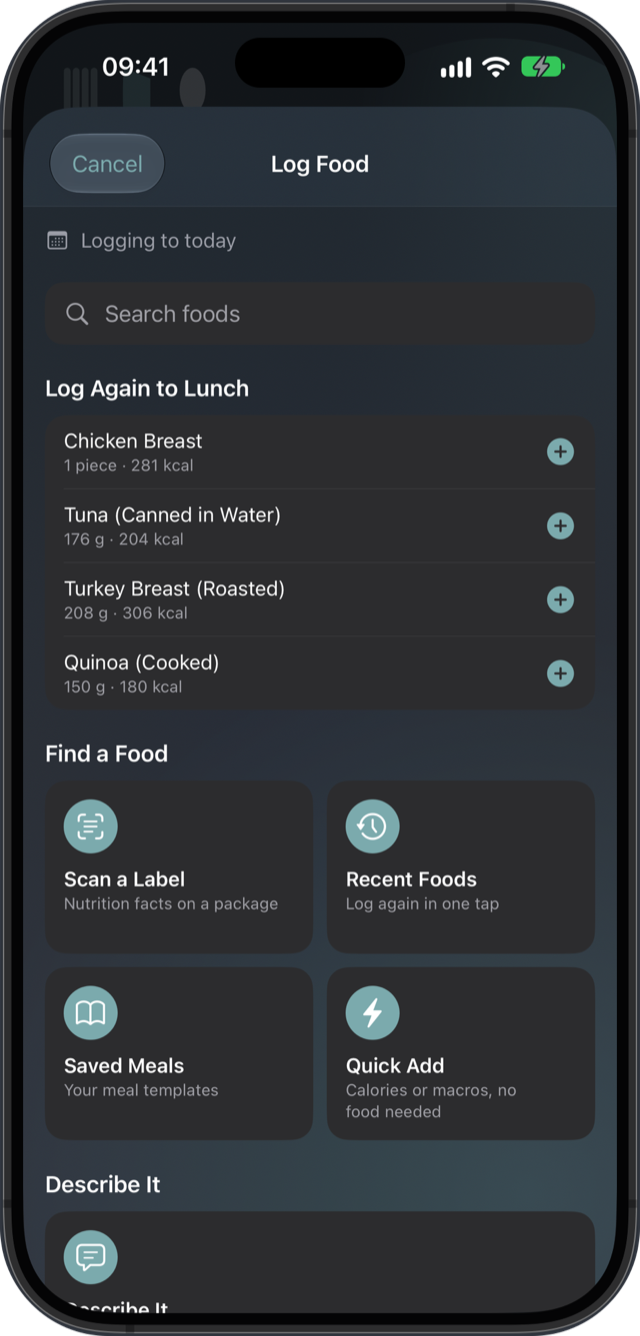
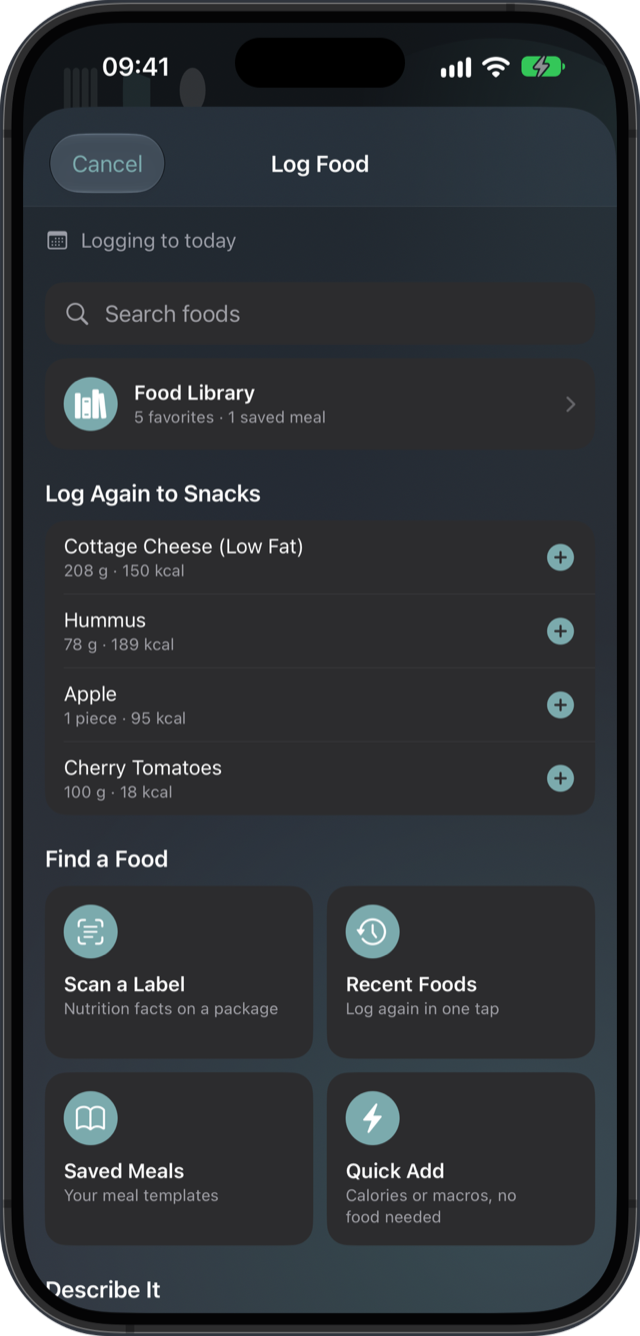
DietApp Pro's page: Log Food with its Food Library, which the page now names among the ways to log

Changed region(s): [[0.0625, 0.2762, 0.9375, 0.982], [0.8438, 0.3069, 0.9062, 0.6138], [0.3438, 0.6751, 0.4375, 0.7058]]

diff --git a/dietapp/index.html b/dietapp/index.html
@@ -163,8 +163,8 @@
         <div class="step-visual">
           <div class="phone">
             <img src="screenshots/05-log-hub.png" width="640" height="1336" loading="lazy"
-              alt="The Log Food screen: type or say what you ate, scan a barcode or a label, or pick a
-                favorite">
+              alt="The Log Food screen: type or say what you ate, scan a barcode or a label, or add from
+                your food library">
           </div>
           <div class="phone" aria-hidden="true">
             <img src="screenshots/03-add-food.png" width="640" height="1336" loading="lazy" alt="">
@@ -181,7 +181,8 @@
             from your goal.</p>
           <ul>
             <li>Fiber, sodium, caffeine and twenty vitamins and minerals, if you want to see them.</li>
-            <li>A fasting timer, favorites and recent foods for one-tap logging.</li>
+            <li>A fasting timer, and your food library a tap away when logging: favorites, recent and
+              custom foods, saved meals and recipes.</li>
             <li>A Home Screen widget with today's calories, macros and water.</li>
           </ul>
         </div>
@@ -379,7 +380,7 @@
       <li>
         <div class="phone">
           <img src="screenshots/05-log-hub.png" width="640" height="1336" loading="lazy"
-            alt="The Log Food hub: type, speak, scan, or pick a favorite">
+            alt="The Log Food hub: type, speak, scan, or add from your food library">
         </div>
         <h3>Log it your way</h3>
         <p>Type it, say it out loud, logged in seconds.</p>
